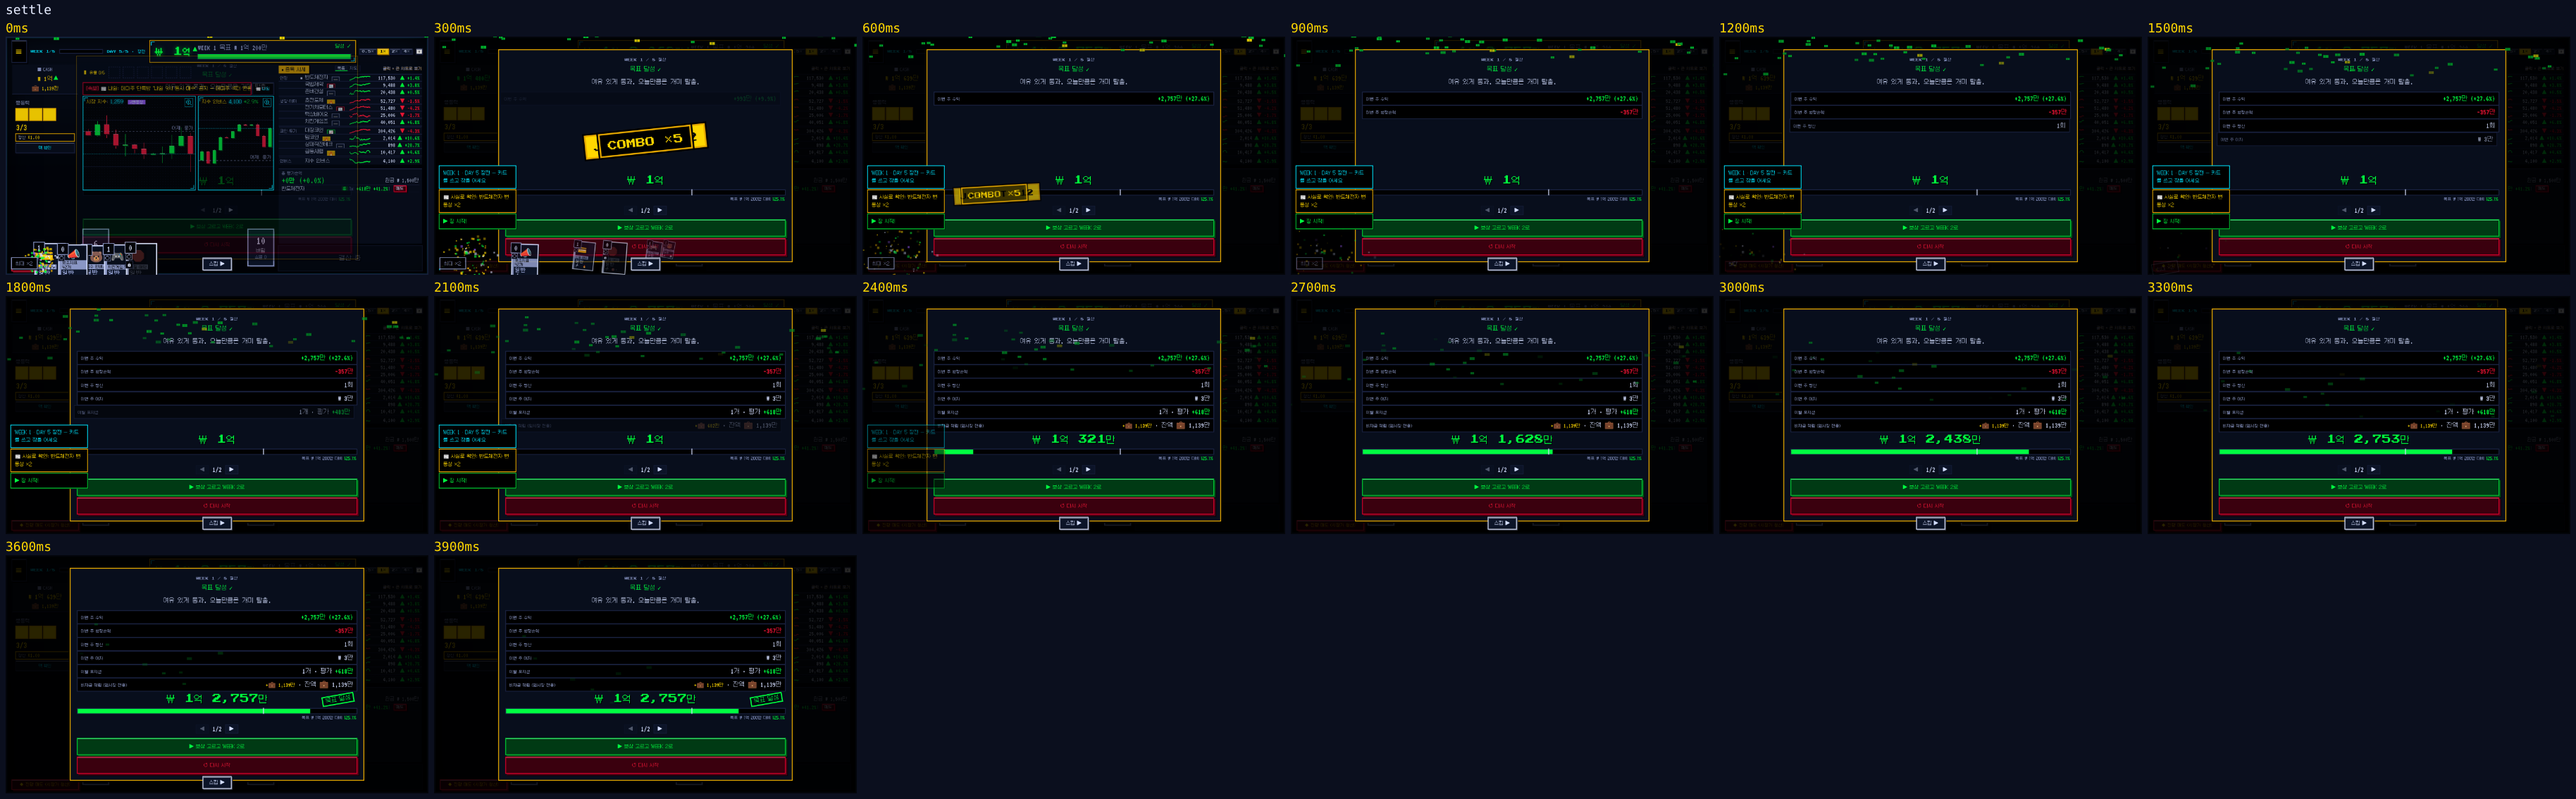
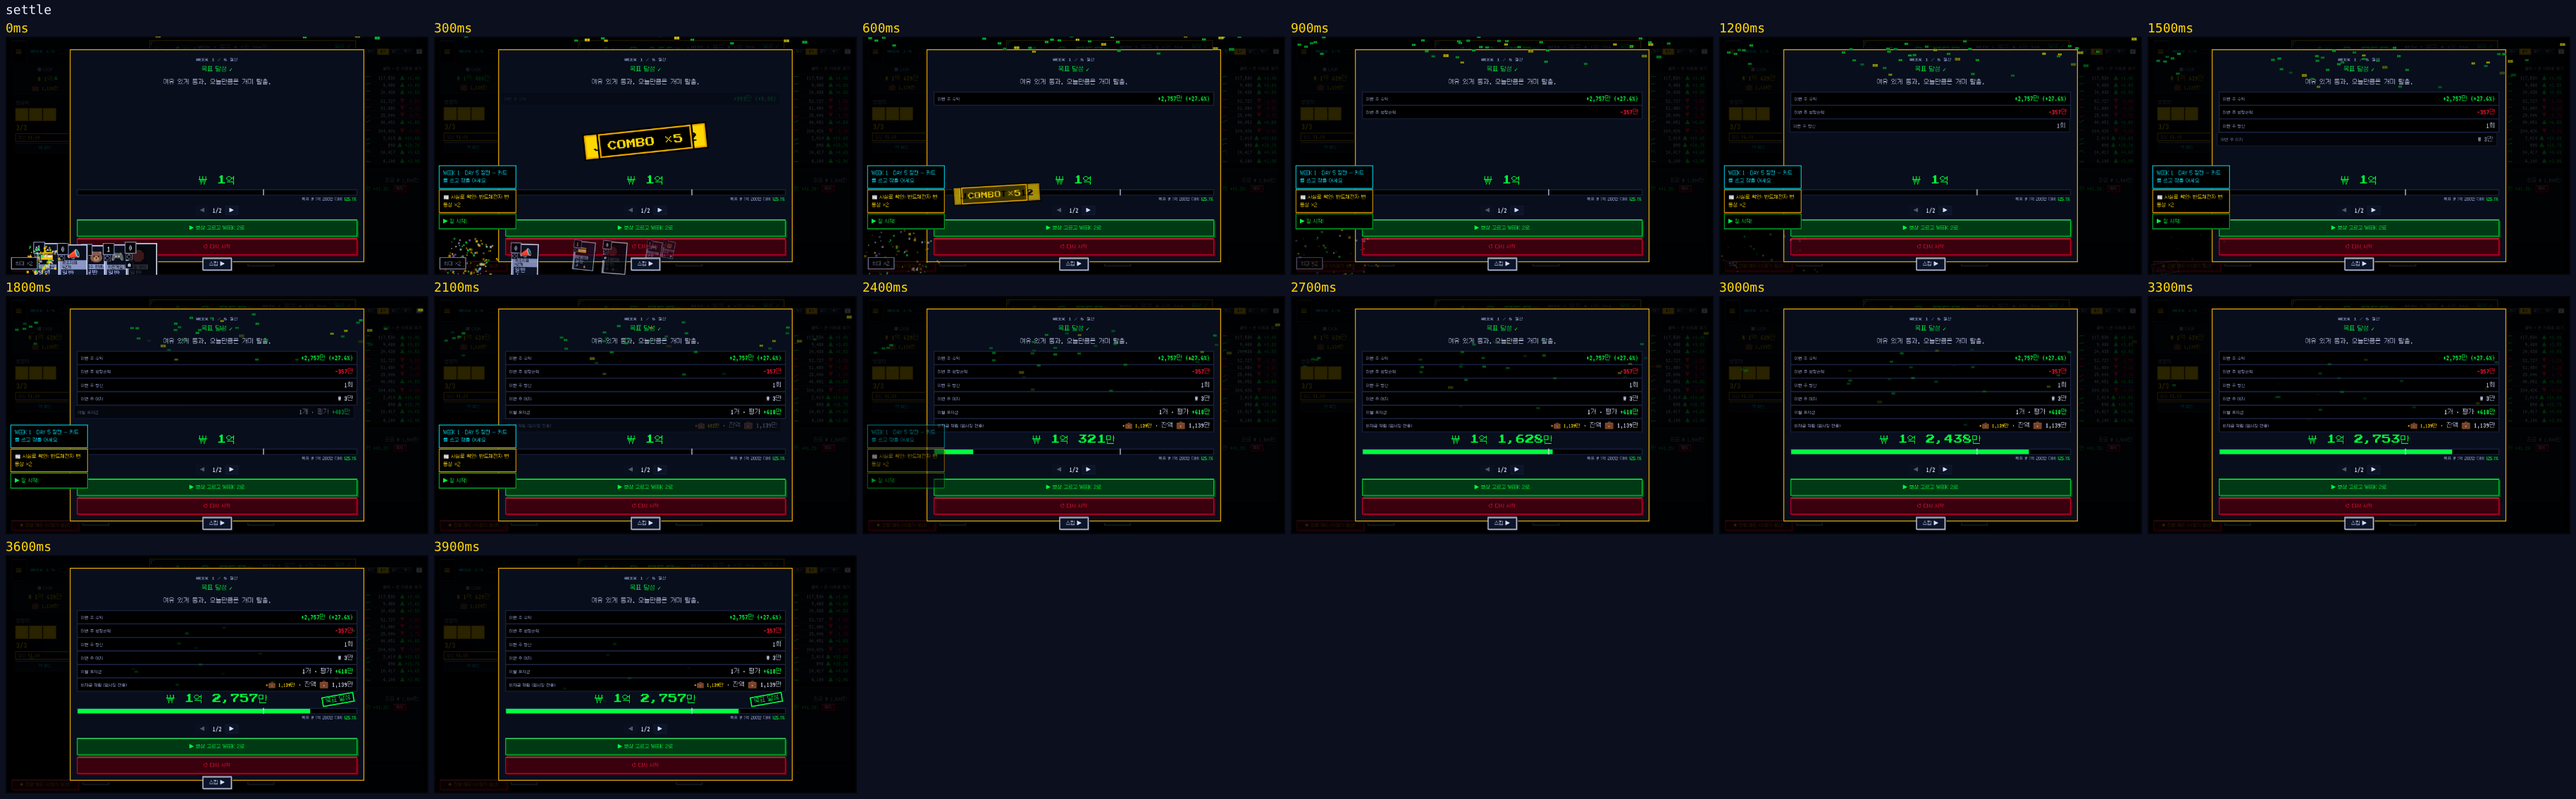
정산 모션 보완: 모달 내용이 바뀌거나 닫히면 그 안 연출을 끝낸다(다음 클릭을 삼키지 않게) · 도장을 순자산 글자 밖으로 · 검증 도구 정리
- smTween scope 'ov' + showOverlay/hideOverlay에서 smSkip('ov')
- 결과 화면 순자산(.result-hero)은 금액만, 도장은 옆 상자(.result-hero-box)
- playtest 테스트: 게임오버 연출(막는 연출)이 끝난 뒤 클릭
- settle.cjs: 큐를 비운 뒤 다시 흘려서 비교 (다음 날 드로우가 찍는 중에 시작하지 않게)

Claude-Session: https://claude.ai/code/session_01L3ZHLmQxHCj8oV9QEyoFob

Changed region(s): [[0.0, 0.0309, 0.1871, 0.3395], [0.7172, 0.0617, 0.7484, 0.0926], [0.0, 0.3086, 0.0312, 0.3395]]

diff --git a/shots/motion-settle-skip.md b/shots/motion-settle-skip.md
@@ -7,19 +7,19 @@
 | modal-in | 1개 (막음) | 0 | 0 | 0 |
 | modal-out | 1개 (안 막음) | 0 | 0 | 0 |
 | settle | 7개 (막음·▶) | 0 | 0 | 0 |
-| fail | 5개 (막음·▶) | 0 | 0 | 0 |
+| fail | 3개 (막음·▶) | 0 | 0 | 0 |
 | reward | 1개 (막음·▶) | 0 | 0 | 0 |
-| reward-pick | 1개 (막음·▶) | 0 | 0 | 0 |
+| reward-pick | 1개 (막음) | 0 | 0 | 0 |
 | deck | 2개 (막음·▶) | 0 | 0 | 0 |
-| wipe | 1개 (막음·▶) | 0 | 89 | 0 |
+| wipe | 1개 (막음·▶) | 0 | 0 | 0 |
 | shop-buy | 2개 (안 막음) | 0 | 0 | 0 |
-| reroll | 1개 (막음) | 0 | 0 | 0 |
-| pack-common | 2개 (막음·▶) | 0 | 0 | 5296 |
+| reroll | 1개 (막음·▶) | 0 | 0 | 0 |
+| pack-common | 2개 (막음) | 0 | 0 | 0 |
 | pack-legendary | 2개 (막음·▶) | 0 | 0 | 0 |
 
 ## 암시장: 연출 도중 휠 스크롤
 
 | 연출 | 화면 overflow-y · 스크롤 가능 · 쪽 | 휠 전→후 scrollTop (화면, 문서) · 그때 진행 중 연출 | 끝난 뒤 남은 연출 (휠 없음/있음) | 남은 유령 카드 | 최종 상태 차이 (휠 없음 vs 있음) |
 |---|---|---|---|---|---:|
-| 구매 비행·잔액 카운트 | auto · 아니오 · 2/8 | [0,0] → [0,0] · 2개 | 0 / 0 | 0 / 0 | 1 |
+| 구매 비행·잔액 카운트 | auto · 아니오 · 2/8 | [0,0] → [0,0] · 2개 | 0 / 0 | 0 / 0 | 0 |
 | 새로고침 슬라이드 | auto · 아니오 · 2/8 | [0,0] → [0,0] · 2개 | 0 / 0 | 0 / 0 | 0 |
